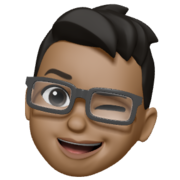
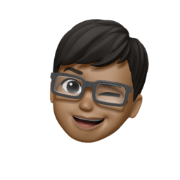
Update Intro

diff --git a/index.html b/index.html
@@ -19,7 +19,7 @@
 			<div id="wrapper">
 				<!-- Header -->
 					<header id="header" class="alt">
-						<span class="logo"><img src="images/memoji/yay.png" alt="" width=300px/></span>
+						<span class="logo"><img src="images/memoji/hi.png" alt="" width=300px/></span>
 						<h1>Po-Wei George Huang</h1>
 						<p> Final Year Computer Science & Mathematics @ NUS</p>
 					</header>
@@ -28,8 +28,8 @@
 					<nav id="nav">
 						<ul>
 							<li><a href="#intro" class="active icon solid fa-image-portrait"> About Me</a></li>
-							<li><a href="#research" class="icon solid fa-flask"> Research</a></li>
 							<li><a href="#work" class="icon solid fa-briefcase"> Work</a></li>
+							<li><a href="#research" class="icon solid fa-flask"> Research</a></li>
 							<li><a href="#publications" class="icon solid fa-book"> Publications</a></li>
 							<li><a href="#projects" class="icon solid fa-code"> Projects</a></li>
 						</ul>
@@ -45,10 +45,10 @@
 										<header class="major">
 											<h2>About Me</h2>
 										</header>
-										<p>A Taiwanese student who, against all odds, pursued his dream of spending his life in front of a
-											glowing rectangle and typing gibberish some people call code on it. I (still) have a fresh liver,
-											and (hopefully) many years to come. Currently interested in doing research and development work.
-											Occasionally dabbles in mathematics, physics, and (formerly) chemistry.</p>
+										<p>Po-Wei Huang is an undergraduate computer science and mathematics student at the National University of Singapore. 
+											He is majoring theoretical computer science, algorithms, artificial intelligence, and machine learning. 
+											His current interests include <i>near-term quantum algorithms</i> and <i>gradient-free quantum machine learning algorithms</i>.
+											He has previously worked on natural language processing of scientific documents and has work experience in database management, microservices, and software engineering.</p>
 									</div>
 									<span class="image"><img src="images/portrait.png" alt="" /></span>
 								</div>
@@ -84,6 +84,30 @@
 							</ul>
 						</section>
 
+						<!--Publications-->
+						<section id="publications" class="main special reveal">
+							<header class="major">
+								<h2>Publications</h2>
+							</header>
+							<div class="table-wrapper">
+								<table>
+									<thead>
+									<tbody>
+										<tr>
+											<td>WIESP@AACL-IJCNLP2022</td>
+											<td><b><a data-fancybox data-src="#domain" href="javascript:;">Domain Specific Augmentations as Low Cost Teachers for Large Students</a></b>
+											<br/><i>Po-Wei Huang (2022)</i></td>
+										</tr>
+										<tr>
+											<td>SDP@COLING2022</td>
+											<td><b><a data-fancybox data-src="#logistruct" href="javascript:;">Lightweight Contextual Logical Structure Recovery</a></b>
+											<br/><i>Po-Wei Huang, Abhinav Ramesh Kashyap, Yanxia Qin, Yajing Yang, and Min-Yen Kan (2022)</i></td>
+										</tr>
+									</tbody>
+								</table>
+							</div>
+						</section>
+
 						<!-- Work -->
 						<section id="work" class="main special reveal">
 							<header class="major">
@@ -112,30 +136,6 @@
 									<a data-fancybox data-src="#tsmc" href="javascript:;"  class="button">Learn More</a>
 								</li>
 							</ul>
-						</section>
-
-						<!--Publications-->
-						<section id="publications" class="main special reveal">
-							<header class="major">
-								<h2>Publications</h2>
-							</header>
-							<div class="table-wrapper">
-								<table>
-									<thead>
-									<tbody>
-										<tr>
-											<td>WIESP@AACL-IJCNLP2022</td>
-											<td><b><a data-fancybox data-src="#domain" href="javascript:;">Domain Specific Augmentations as Low Cost Teachers for Large Students</a></b>
-											<br/><i>Po-Wei Huang (2022)</i></td>
-										</tr>
-										<tr>
-											<td>SDP@COLING2022</td>
-											<td><b><a data-fancybox data-src="#logistruct" href="javascript:;">Lightweight Contextual Logical Structure Recovery</a></b>
-											<br/><i>Po-Wei Huang, Abhinav Ramesh Kashyap, Yanxia Qin, Yajing Yang, and Min-Yen Kan (2022)</i></td>
-										</tr>
-									</tbody>
-								</table>
-							</div>
 						</section>
 
 						<!-- Projects -->
